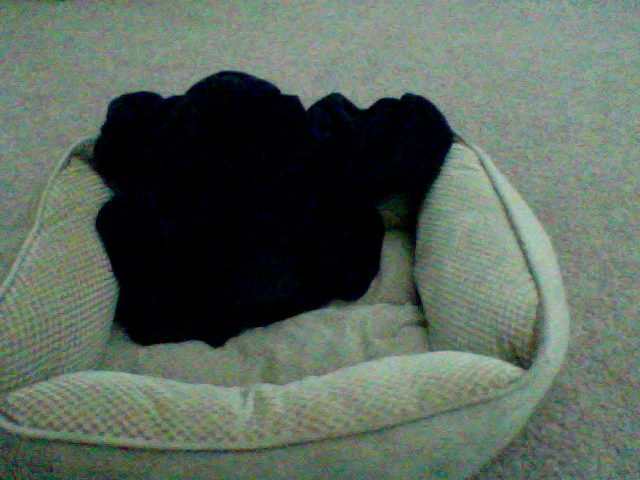
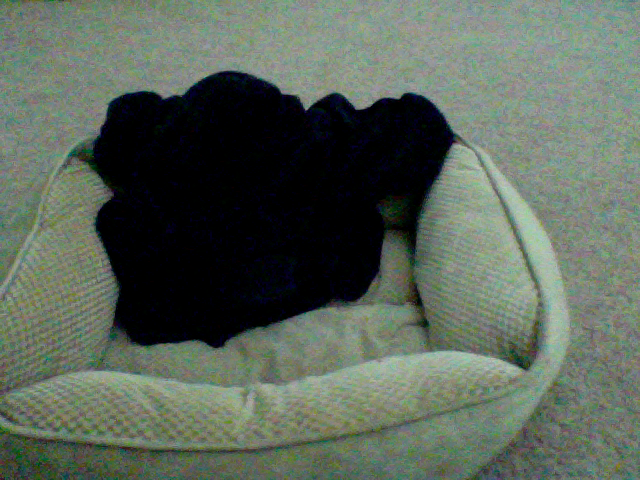
update at Month05Day08Time12:22

Changed region(s): [[0.0, 0.0, 1.0, 1.0], [0.4062, 0.5625, 0.4688, 0.625], [0.625, 0.25, 0.6562, 0.2812]]

diff --git a/index.html b/index.html
@@ -40,7 +40,7 @@
       <div class="row">
         <div class="col-md-4">
 	<p>This picture was updated at Month05Day08Time12:22</p>
-		<img src="8_pic.png" />
+		<img src="7_pic.png" />
         </div>
       </div>
 
